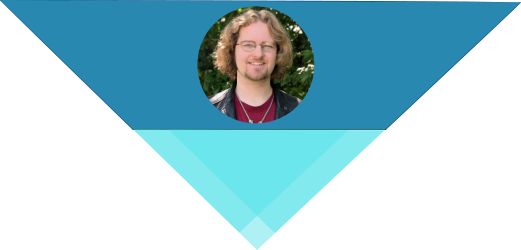
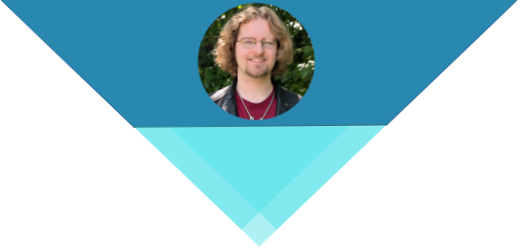
Fixed images, and added css

diff --git a/index.html b/index.html
@@ -3,16 +3,18 @@
 <head>
     <meta charset="UTF-8">
     <meta name="viewport" content="width=device-width, initial-scale=1.0">
+    <link rel="preconnect" href="https://fonts.googleapis.com">
+    <link rel="preconnect" href="https://fonts.gstatic.com" crossorigin>
+    <link href="https://fonts.googleapis.com/css2?family=Figtree:ital,wght@0,300..900;1,300..900&family=Fira+Code:wght@300..700&family=Libre+Baskerville:ital,wght@0,400;0,700;1,400&display=swap" rel="stylesheet">    <link rel="stylesheet" href="styling/base.css">
     <title>Luke Bullock's Web Resume</title>
 </head>
 <body>
     <header>
-        <div class="left-box"><img src="images/Resume Portrait.png" alt="resume portrait"></div>
-
         <div class="right-box">
-            <h1>Luke Bullock</h1>
-            <h2>Software Developer</h2>
+                <h1>Luke Bullock</h1>
+                <h2>Web & Software Developer</h2>
         </div>
+        <div class="left-box"><img class="image-triange" src="images/full triangle - small veiwport.png" alt="resume portrait"></div></header>
     </header>
     <main>
         <div class="left-ribbon">
@@ -29,9 +31,9 @@
                     <li><b>Computer skills:</b> Capable with microsoft word and Inkscape</li>
                     <li><b>Knows the basics of:</b> Python, C#, Html, CSS, JavaScript, SQL, and .NetCore MVC</li>
                     <li><b>Dedication:</b> The sort of person who can get lost for hours in a complex task</li>
-                    <li>Applies strong design and problem-solving skills</li>
-                    <li>Excels in online teamwork and collaboration</li>
-                    <li>Has strong communication and interpersonal skills</li>
+                    <li><b>Applies:</b> strong design and problem-solving skills</li>
+                    <li><b>Excels in:</b> online teamwork and collaboration</li>
+                    <li><b>Has strong communication and interpersonal skills</b></li>
                 </ul>
             </div>
             <div class="container-education">
@@ -41,12 +43,6 @@
                     <p><b>September 2022 - April 2025</b></p>
                     <p>Rexburg, Idaho</p>
                     <p>Brigham Young University - Idaho</p>
-                </div>
-                <div class="container-title">
-                    <h3>high school diploma</h3>
-                    <p><b>2015 - 2019</b></p>
-                    <p>Lethbridge, Alberta</p>
-                    <p>Lethbridge Collegiate Institute</p>
                 </div>
             </div>
         </div>
@@ -80,9 +76,14 @@
         </div>
 
     </main>
+
     <footer>
-        <button>Back to top</button>
-        <p>© 2025 Luke Bullock. All rights reserved.</p>
+        <img class="bottom-triangle" src="images/bottom triangle.png">
+        <div class="box-footer-bottom">
+            <button class="button-to-top">Back to top</button>
+            <p>© 2025 Luke Bullock. All rights reserved.</p>
+        </div>
+        
     </footer>
 </body>
 </html>

diff --git a/styling/base.css b/styling/base.css
@@ -3,8 +3,10 @@ body {
     overflow-x: hidden;
 }
 
-header {
-    display: grid; 
+header { 
+    height: 129px;
+    background-color: #02367bff;
+    padding: 2vw;
 }
 
 p {
@@ -19,12 +21,6 @@ h1, h2, h3 {
     font-family: "Libre Baskerville" serif;
 }
 
-.blue-ribbon {
-    height: 132px; 
-    background-color: #02367bff;
-    z-index: 1;
-}
-
 .right-box {
     margin-top: 10px;
     color: white;
@@ -33,12 +29,14 @@ h1, h2, h3 {
 
 .right-box h2 {
     font-style: italic;
+    color: rgb(198, 209, 174);
+    font-size: clamp(18px, 6vw, 25px);
 }
 
 .image-triange {
-    position:absolute;
+    position:relative;
     height: 200px;
-    top:130px;
+    top: 2vw;
     left: 50%;
     transform: translateX(-50%);
     z-index: 2;
@@ -96,6 +94,21 @@ footer button {
     margin-bottom: -2px;
     width: 100%;
 }
+
+.button-to-top {
+    position: relative;
+    bottom: 2vw;
+}
+
+@media screen and (max-width: 226px) {
+    header {
+        height: 200px;
+    }
+}
+
+
+
+
 
 
 /* Medium veiwport at 435px wide */
